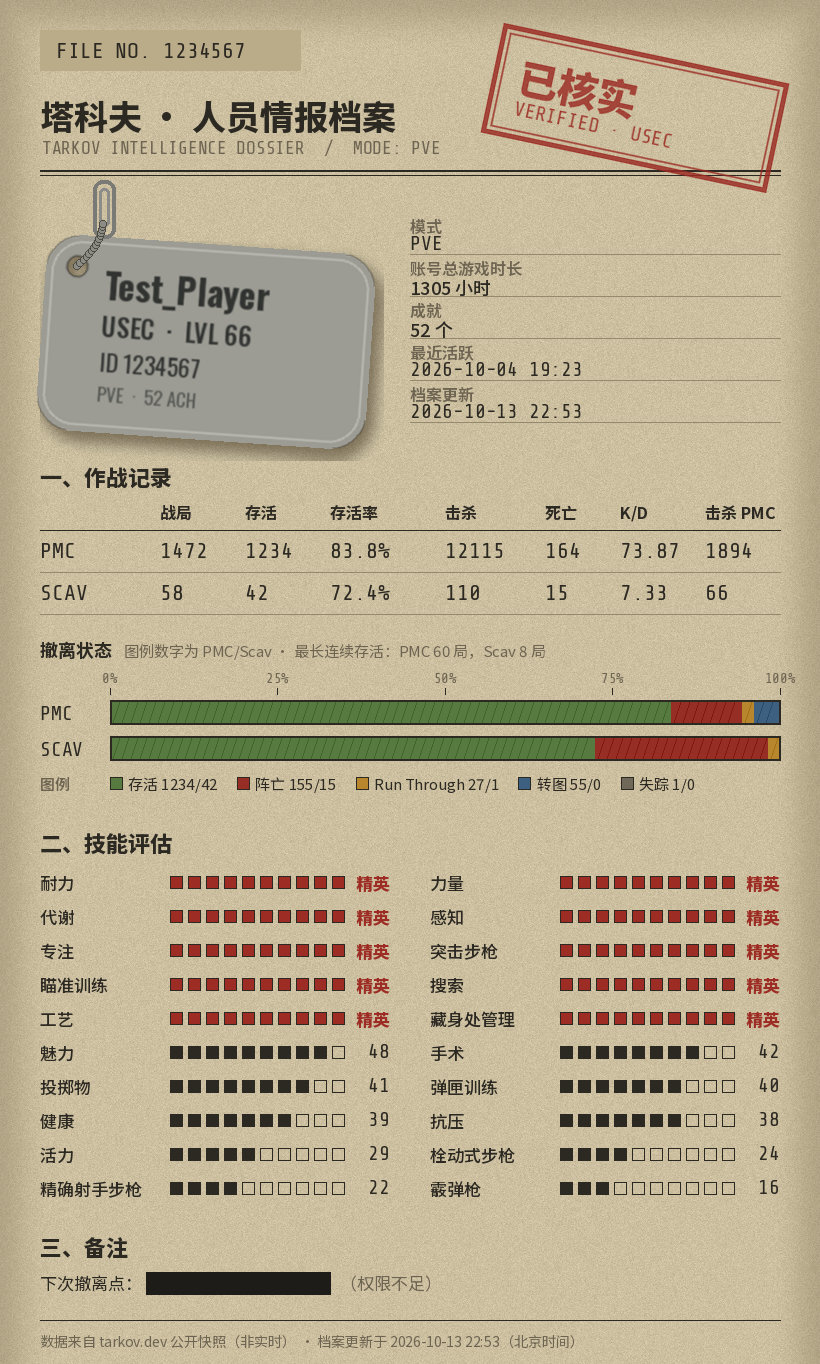
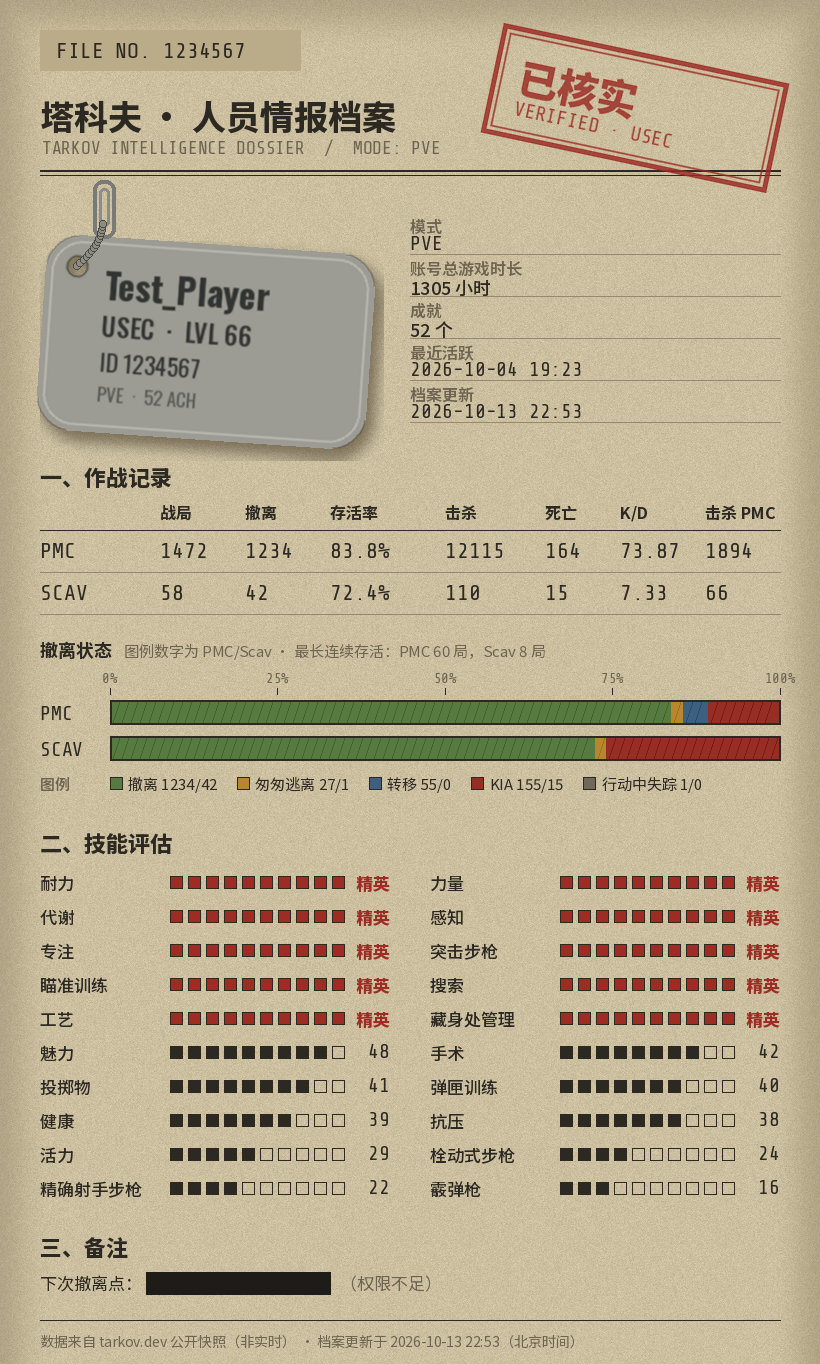
Use the game's wording for exit statuses
撤离 / 匆匆逃离 / 转移 / KIA / 行动中失踪, in this order, in the text, Markdown
and image replies (card.SURVIVED, card.EXITS); the combat table's 存活
column becomes 撤离. Font subset rebuilt for the new characters; README
samples and preview regenerated. 115 tests.

Claude-Session: https://claude.ai/code/session_01Q1QWQURHi7Ke4Gu8C992xb

diff --git a/tests/test_output.py b/tests/test_output.py
@@ -12,9 +12,9 @@ class OutputTests(unittest.TestCase):
     def test_full_profile(self):
         text = render(summarize(profile()), 'PVE', now=NOW)
         for part in ('【塔科夫 PVE 档案】Test_Player（账号 ID 1234567）', '阵营 USEC｜等级 66', '账号总游戏时长 1305 小时｜成就 2 个',
-                     'PMC：战局 1472，存活 1234，存活率 83.8%', '击杀 12115，死亡 164，K/D 73.87，击杀 PMC 1894',
-                     '阵亡 155，失踪 1，Run Through 27，转图 55，最长连续存活 60 局',
-                     'Scav：战局 58，存活 42，存活率 72.4%', '精英技能（2 项）：耐力、力量', '其他技能（前 2 项）：魅力 48、活力 29',
+                     'PMC：战局 1472，撤离 1234，存活率 83.8%', '击杀 12115，死亡 164，K/D 73.87，击杀 PMC 1894',
+                     '匆匆逃离 27，转移 55，KIA 155，行动中失踪 1，最长连续存活 60 局',
+                     'Scav：战局 58，撤离 42，存活率 72.4%', '精英技能（2 项）：耐力、力量', '其他技能（前 2 项）：魅力 48、活力 29',
                      '档案更新于 2026-10-13 22:53（北京时间）'):
             with self.subTest(part=part):
                 self.assertIn(part, text)
@@ -48,6 +48,17 @@ class OutputTests(unittest.TestCase):
                 self.assertNotIn('档案更新于', text)
                 self.assertNotIn('天没有更新', text)
 
+    def test_exit_statuses_use_the_game_wording(self):
+        # Maintainer: 撤离 / 匆匆逃离 / 转移 / KIA / 行动中失踪, in this order.
+        card = build_card(summarize(profile()), 'PVE', now=NOW)
+        text, markdown = render(summarize(profile()), 'PVE', now=NOW), render_markdown(card)
+        self.assertIn('撤离 1234', text)
+        self.assertIn('**撤离状态（PMC）**：撤离 1234 · 匆匆逃离 27 · 转移 55 · KIA 155 · 行动中失踪 1', markdown)
+        self.assertIn('| | 战局 | 撤离 | 存活率 |', markdown)
+        for old in ('阵亡', 'Run Through', '转图'):
+            self.assertNotIn(old, text+markdown)
+        self.assertNotRegex(text+markdown, '(?<!行动中)失踪')
+
     def test_markdown(self):
         s = summarize(profile(info_nickname='A_b*c'))
         s['scav'] = dict.fromkeys(s['scav'], 0)
@@ -65,9 +76,9 @@ class OutputTests(unittest.TestCase):
         s = summarize(profile())
         self.assertEqual(render(s, 'PVE', notes=['n'], now=NOW), '\n'.join([
             '【塔科夫 PVE 档案】Test_Player（账号 ID 1234567）', '阵营 USEC｜等级 66', '账号总游戏时长 1305 小时｜成就 2 个',
-            '最近活跃 2026-10-04 19:25', '', 'PMC：战局 1472，存活 1234，存活率 83.8%',
-            '　击杀 12115，死亡 164，K/D 73.87，击杀 PMC 1894', '　阵亡 155，失踪 1，Run Through 27，转图 55，最长连续存活 60 局',
-            'Scav：战局 58，存活 42，存活率 72.4%', '　击杀 110，死亡 15，K/D 7.33，击杀 PMC 66', '　阵亡 15，Run Through 1，最长连续存活 8 局',
+            '最近活跃 2026-10-04 19:25', '', 'PMC：战局 1472，撤离 1234，存活率 83.8%',
+            '　击杀 12115，死亡 164，K/D 73.87，击杀 PMC 1894', '　匆匆逃离 27，转移 55，KIA 155，行动中失踪 1，最长连续存活 60 局',
+            'Scav：战局 58，撤离 42，存活率 72.4%', '　击杀 110，死亡 15，K/D 7.33，击杀 PMC 66', '　匆匆逃离 1，KIA 15，最长连续存活 8 局',
             '精英技能（2 项）：耐力、力量', '其他技能（前 2 项）：魅力 48、活力 29', '', '数据来自 tarkov.dev，档案更新于 2026-10-13 22:53（北京时间）', 'n']))
 
     def test_prestige_and_notes(self):

diff --git a/tarkov_core/output.py b/tarkov_core/output.py
@@ -1,7 +1,7 @@
 """Plain-text and Markdown replies, built from a card (card.py)."""
 import re
 
-from .card import EXITS, build_card, stale_note
+from .card import EXITS, SURVIVED, build_card, stale_note
 
 
 def side_lines(card_side):
@@ -10,7 +10,7 @@ def side_lines(card_side):
         return [f'{title}：暂无记录']
     kd = card_side['kd'] or '—（无死亡记录）'
     lines = [
-        f"{title}：战局 {stats['raids']}，存活 {stats['survived']}，存活率 {card_side['rate']}",
+        f"{title}：战局 {stats['raids']}，{SURVIVED} {stats['survived']}，存活率 {card_side['rate']}",
         f"　击杀 {stats['kills']}，死亡 {stats['deaths']}，K/D {kd}，击杀 PMC {stats['pmc_kills']}",
     ]
     detail = [f'{label} {stats[key]}' for key, label in EXITS if stats[key]]
@@ -84,7 +84,7 @@ def render_markdown(card):
     if card['last_active']:
         extra.append(f"最近活跃 {card['last_active']}")
     lines += [' · '.join(extra), '']
-    lines.append('| | 战局 | 存活 | 存活率 | 击杀 | 死亡 | K/D | 击杀 PMC | 最长连续存活 |')
+    lines.append(f'| | 战局 | {SURVIVED} | 存活率 | 击杀 | 死亡 | K/D | 击杀 PMC | 最长连续存活 |')
     lines.append('|---|---:|---:|---:|---:|---:|---:|---:|---:|')
     for card_side in card['sides']:
         stats = card_side['stats']
@@ -97,7 +97,7 @@ def render_markdown(card):
     for card_side in card['sides']:
         if not card_side['empty']:
             stats = card_side['stats']
-            exits = ' · '.join([f"存活 {stats['survived']}"]+[f'{label} {stats[key]}' for key, label in EXITS])
+            exits = ' · '.join([f"{SURVIVED} {stats['survived']}"]+[f'{label} {stats[key]}' for key, label in EXITS])
             # Two trailing spaces: a Markdown line break, so the two sides stay on separate lines.
             lines.append(f"**撤离状态（{card_side['title']}）**：{exits}  ")
     elite = [name for name, _, is_elite in card['skills'] if is_elite]

diff --git a/tarkov_core/image.py b/tarkov_core/image.py
@@ -11,7 +11,7 @@ from pathlib import Path
 
 from PIL import Image, ImageChops, ImageDraw, ImageFilter, ImageFont
 
-from .card import stale_note
+from .card import EXITS, SURVIVED, stale_note
 
 FONTS = Path(__file__).with_name('fonts')
 FONT_FILES = {'sc': 'NotoSansSC-Subset.ttf', 'osw': 'Oswald-Variable.ttf', 'mono': 'ShareTechMono-Regular.ttf'}
@@ -24,7 +24,7 @@ PAPER, INK, FADED, RED, LINE = (204, 192, 160), (44, 40, 34), (110, 100, 82), (1
 TAG_METAL, TAG_EDGE, TAG_TEXT = (156, 156, 148), (186, 186, 178), (50, 52, 50)
 EXIT_COLORS = {'survived': (86, 122, 64), 'killed': (150, 46, 38), 'runner': (184, 134, 44),
                'transit': (62, 96, 128), 'mia': (112, 104, 88)}
-EXIT_LABELS = (('survived', '存活'), ('killed', '阵亡'), ('runner', 'Run Through'), ('transit', '转图'), ('mia', '失踪'))
+EXIT_LABELS = (('survived', SURVIVED),)+EXITS
 MODE_EN = {'PVP': 'PVP', 'PVE': 'PVE', 'PVP 赛季': 'PVP SEASON'}
 JPEG_QUALITY = 85
 
@@ -217,7 +217,7 @@ def render_image(card):
     y = 460
     d.text((40, y), f'{next(number)}、作战记录', font=font('sc', 22, 800), fill=INK)
     y += 40
-    head = ['', '战局', '存活', '存活率', '击杀', '死亡', 'K/D', '击杀 PMC']
+    head = ['', '战局', SURVIVED, '存活率', '击杀', '死亡', 'K/D', '击杀 PMC']
     xs = [40, 160, 245, 330, 445, 545, 620, 705, W-40]
     for x, h in zip(xs, head):
         d.text((x, y), h, font=font('sc', 16, 700), fill=INK)

diff --git a/tests/test_image.py b/tests/test_image.py
@@ -59,6 +59,18 @@ class ImageTests(unittest.TestCase):
         # once in the combat table, once on the exit-status bar
         self.assertEqual(drawn.count('暂无记录'), 2)
 
+    def test_exit_legend_uses_the_game_wording(self):
+        drawn = []
+        real = ImageDraw.ImageDraw.text
+        def record(self, xy, text, *args, **kwargs):
+            drawn.append(text)
+            return real(self, xy, text, *args, **kwargs)
+        with patch.object(ImageDraw.ImageDraw, 'text', record):
+            draw(summarize(profile()))
+        legend = [t for t in drawn if ' ' in t and t.split(' ')[0] in ('撤离', '匆匆逃离', '转移', 'KIA', '行动中失踪')]
+        self.assertEqual(legend, ['撤离 1234/42', '匆匆逃离 27/1', '转移 55/0', 'KIA 155/15', '行动中失踪 1/0'])
+        self.assertIn('撤离', drawn)  # the combat-table header
+
     def test_height_follows_skills_and_notes(self):
         s = summarize(profile())
         none = draw(s, skill_limit=0)[1].height

diff --git a/tarkov_core/card.py b/tarkov_core/card.py
@@ -6,7 +6,10 @@ import time
 # Chat users of this plugin are mostly in China; times are shown in Beijing time and say so.
 TZ = datetime.timezone(datetime.timedelta(hours=8))
 STALE_DAYS = 30
-EXITS = (('killed', '阵亡'), ('mia', '失踪'), ('runner', 'Run Through'), ('transit', '转图'))
+# Exit statuses other than survived, in the game's Chinese wording and order (maintainer): 撤离 (survived),
+# 匆匆逃离, 转移, KIA, 行动中失踪.
+SURVIVED = '撤离'
+EXITS = (('runner', '匆匆逃离'), ('transit', '转移'), ('killed', 'KIA'), ('mia', '行动中失踪'))
 
 
 def when(seconds):

diff --git a/README.md b/README.md
@@ -26,7 +26,7 @@
 - 按昵称或账号 ID 查询玩家档案，可以指定模式，也可以使用配置里的默认模式。
 - 显示内容：
   - 阵营、等级、声望、账号总游戏时长、成就数、最近活跃时间；
-  - PMC 与 Scav 的战局数、存活数、存活率、击杀、死亡、K/D、击杀 PMC 数、撤离状态和最长连续存活；
+  - PMC 与 Scav 的战局数、撤离数、存活率、击杀、死亡、K/D、击杀 PMC 数、撤离状态（撤离 / 匆匆逃离 / 转移 / KIA / 行动中失踪）和最长连续存活；
   - 精英技能和等级最高的若干项技能。
 - 显示档案的更新时间，超过 30 天没有更新时会注明；按昵称查到的档案昵称与名单不一致时会提示可能改过名。
 - 三种回复方式，在配置中选择：
@@ -82,12 +82,12 @@
 账号总游戏时长 1305 小时｜成就 52 个
 最近活跃 2026-10-04 19:23
 
-PMC：战局 1472，存活 1234，存活率 83.8%
+PMC：战局 1472，撤离 1234，存活率 83.8%
 　击杀 12115，死亡 164，K/D 73.87，击杀 PMC 1894
-　阵亡 155，失踪 1，Run Through 27，转图 55，最长连续存活 60 局
-Scav：战局 58，存活 42，存活率 72.4%
+　匆匆逃离 27，转移 55，KIA 155，行动中失踪 1，最长连续存活 60 局
+Scav：战局 58，撤离 42，存活率 72.4%
 　击杀 110，死亡 15，K/D 7.33，击杀 PMC 66
-　阵亡 15，Run Through 1，最长连续存活 8 局
+　匆匆逃离 1，KIA 15，最长连续存活 8 局
 精英技能（10 项）：耐力、力量、代谢、感知、专注、突击步枪、瞄准训练、搜索、工艺、藏身处管理
 其他技能（前 10 项）：魅力 48、手术 42、投掷物 41、弹匣训练 40、健康 39、抗压 38、活力 29、栓动式步枪 24、精确射手步枪 22、霰弹枪 16
 
@@ -97,7 +97,8 @@ Scav：战局 58，存活 42，存活率 72.4%
 数字的含义：
 
 - **K/D** = 击杀 ÷ 死亡。这里的击杀包括 AI，与游戏内统计页相同。PVE 模式下的“击杀 PMC”是 AI PMC。
-- **存活率** = 存活 ÷ 战局数。
+- **撤离状态**沿用游戏里的叫法：撤离、匆匆逃离、转移、KIA、行动中失踪。
+- **存活率** = 撤离 ÷ 战局数。
 - **账号总游戏时长**不是单个模式的时长：一份真实的赛季档案只有 90 局，显示的却是 7141 小时。
 - **等级**由总经验按 tarkov.dev 的等级经验表换算。
 - **技能等级**是进度除以 100，满 51 级为精英。

diff --git a/checklist.md b/checklist.md
@@ -12,7 +12,7 @@
 
 - 当前版本 **0.2.0**，加入了图片和 Markdown 回复，尚未在聊天平台实测。
 - 已用真实网络把插件的查询流程完整跑过一遍：AstrBot 本身用测试替身代替，数据从 `players.tarkov.dev` 实际下载。用账号 ID 和昵称各查了 PVE、PVP、赛季模式。其中一份 PVE 档案与维护者从 tarkov.dev 网站下载的个人档案逐字段比对，完全一致。
-- 自动测试共 113 项，全部通过。每次推送代码时，GitHub Actions 会在 Python 3.12 和 3.13 上各跑一遍。
+- 自动测试共 115 项，全部通过。每次推送代码时，GitHub Actions 会在 Python 3.12 和 3.13 上各跑一遍。
 
 修改由 Claude Opus 5.5（通过 Claude Code）完成，经项目维护者审阅。做法与 spark 项目相同：先写测试，再改代码，最后跑完全部测试。另外用“故意改坏代码”的方式检查测试：把关键保护逐一从代码里去掉，确认每一项都会被测试发现（共 24 项）。
 
@@ -20,7 +20,7 @@
 
 ```bash
 pip install -r requirements.txt
-python -m unittest discover -s tests   # 应显示 Ran 113 tests ... OK
+python -m unittest discover -s tests   # 应显示 Ran 115 tests ... OK
 python tools/package_plugin.py         # 生成 dist/astrbot_tarkov_datasearch-v0.2.0.zip
 ```
 
@@ -73,6 +73,9 @@ python tools/package_plugin.py         # 生成 dist/astrbot_tarkov_datasearch-v
    - 测试 `tests/test_image.py` 检查：图片能生成、同一份档案每次画出的图片完全相同、高度随技能和备注变化、异常数据也能画；代码里的每个中文字符都在字体里（以后在代码里加了中文却忘了重新生成字体，这个测试会失败）。
    - 测试 `test_text_is_unchanged_by_the_card_model` 和 40 组新旧对比确认文字回复与改动前逐字相同。
    - 把新增的保护逐一从代码里去掉，共 11 处，每一处都会被测试发现。
+5. **撤离状态改用游戏叫法**（维护者要求）
+   - 撤离 / 匆匆逃离 / 转移 / KIA / 行动中失踪，按这个顺序出现在文字、Markdown 和图片里；作战记录的“存活”列改为“撤离”。
+   - 怎么核对：测试 `test_exit_statuses_use_the_game_wording`、`test_exit_legend_uses_the_game_wording`。
 
 ### 0.1.0：首个版本
 

diff --git a/handoff.md b/handoff.md
@@ -14,7 +14,7 @@ changes. The layout and conventions follow the maintainer's earlier plugin `astr
 | Maintainer decisions | Personal data only (no item/price/task queries). Any nickname may be queried, as "mode + name". Data source: players.tarkov.dev static snapshots. Plain-text output first; image rendering later. v0.1 fields: level, side, K/D, survival rate, skills; lookup by nickname or account id. License GPL-3.0-or-later. Name index checked weekly (§9). AI statement names Claude Opus 5.5 (§9). |
 | Branch | `claude/amazing-clarke-eu3xue` (repo was empty). No PR. |
 | Version | 0.2.0 since §15; 0.1.0 before (`tarkov_core/__init__.py` `VERSION`, `metadata.yaml`, `@register(...)`, CHANGELOG; `test_version_is_consistent`). |
-| Tests | 113, `python -m unittest discover -s tests`, Python 3.13 locally; CI on 3.12 and 3.13. |
+| Tests | 115, `python -m unittest discover -s tests`, Python 3.13 locally; CI on 3.12 and 3.13. |
 | AstrBot evidence | 4.16.0 wheel read (not executed): `register_command(command_name, sub_command, alias: set, **kwargs)` in `astrbot/core/star/register/star_handler.py`. Plugin patterns copied from the spark plugin, which was live-tested on 4.28.2. **No live AstrBot run.** |
 
 Maintainer's working rule (carried over from the spark plugin): before changing behaviour, propose a plan with its
@@ -393,3 +393,11 @@ survived the first run; `test_long_text_is_shrunk_to_fit`, `test_same_picture_in
 **Not verified:** how chat platforms display a ~400 KB JPEG (QQ/NapCat, Telegram, Discord); Markdown rendering per
 platform; Pillow versions other than 12.3.0 (AstrBot allows >= 11.2.1; `set_variation_by_axes` and variable fonts
 need FreeType with variation support, present in Pillow wheels).
+
+### 15.1 Exit-status wording (maintainer)
+
+The game's Chinese wording and order: 撤离 (survived) / 匆匆逃离 (runner) / 转移 (transit) / KIA (killed) /
+行动中失踪 (MIA). `card.SURVIVED` and `card.EXITS` hold them; text, Markdown (column and status line) and image (table
+header, bar order, legend) all read from there. 存活率 (survived ÷ raids) keeps its name. The font subset was rebuilt
+for the new characters (1167 characters, 185 KB). Tests: `test_exit_statuses_use_the_game_wording`,
+`test_exit_legend_uses_the_game_wording`; 113 -> 115.

diff --git a/CHANGELOG.md b/CHANGELOG.md
@@ -31,12 +31,13 @@
 ### 变更
 
 - 文字、Markdown 和图片三种回复都由同一份“卡片内容”生成，内容一致；文字回复的格式不变。
+- 撤离状态改用游戏里的叫法和顺序：撤离 / 匆匆逃离 / 转移 / KIA / 行动中失踪（以前是存活 / 阵亡 / 失踪 / Run Through / 转图）。
 - `requirements.txt` 增加 `pillow>=11.2.1`（AstrBot 本身已依赖）。
 - 版本号升至 0.2.0。
 
 ### 测试
 
-- 单元测试 113 项（新增图片、Markdown、输出方式和字体覆盖的测试）。
+- 单元测试 115 项（新增图片、Markdown、输出方式、字体覆盖和撤离状态叫法的测试）。
 
 ## 0.1.0 - 2026-10-13
 
